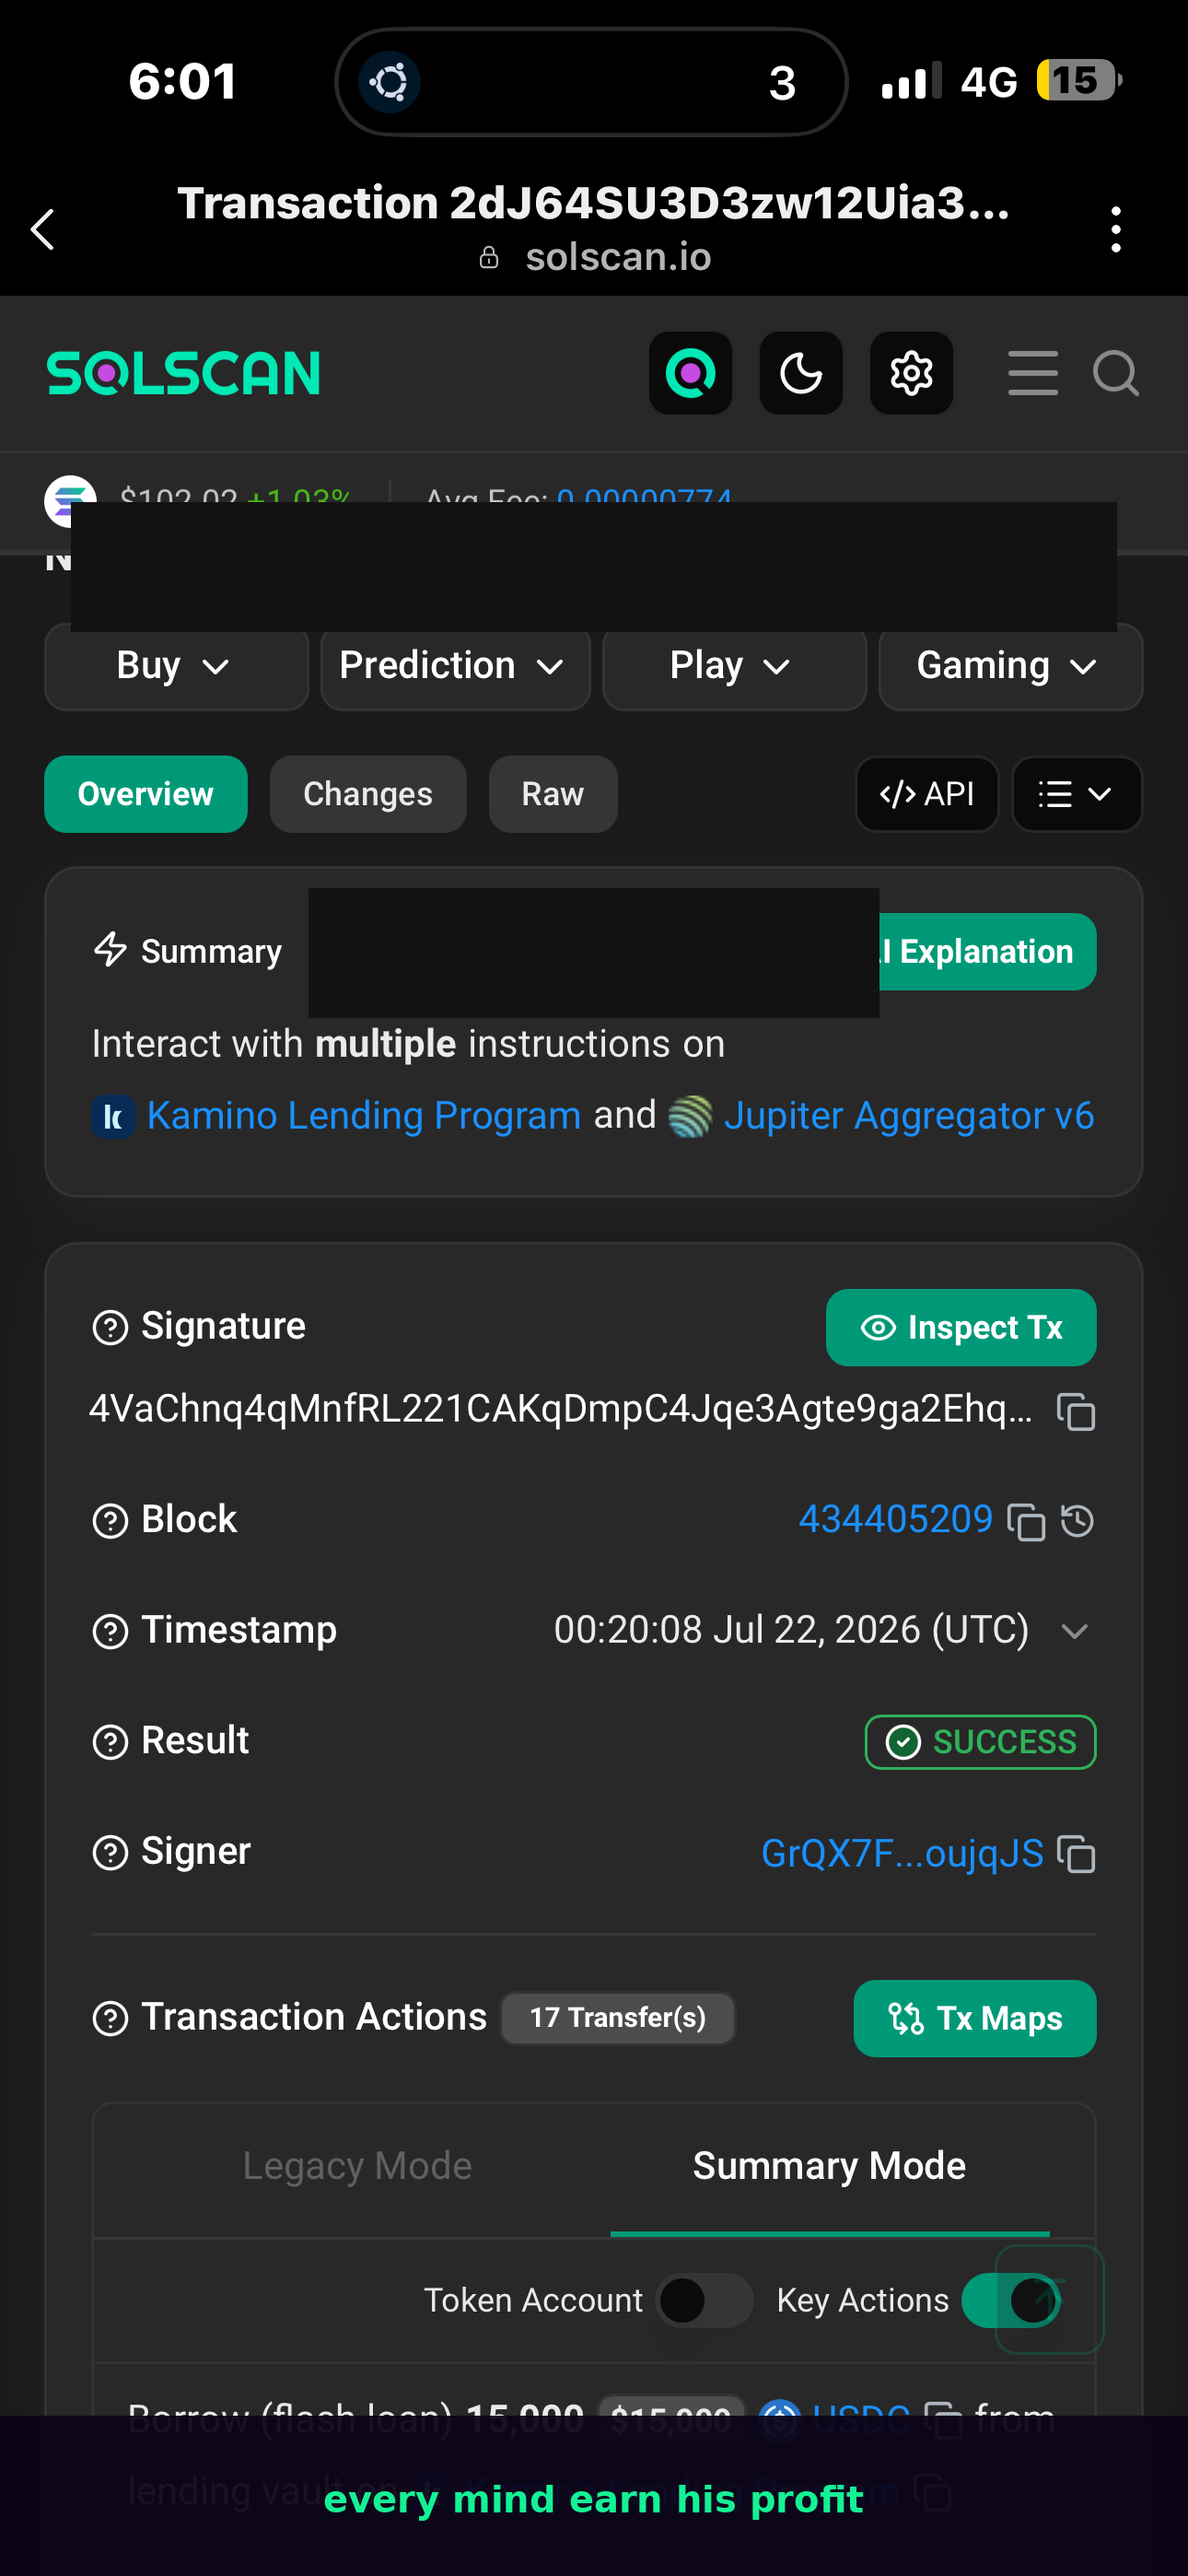
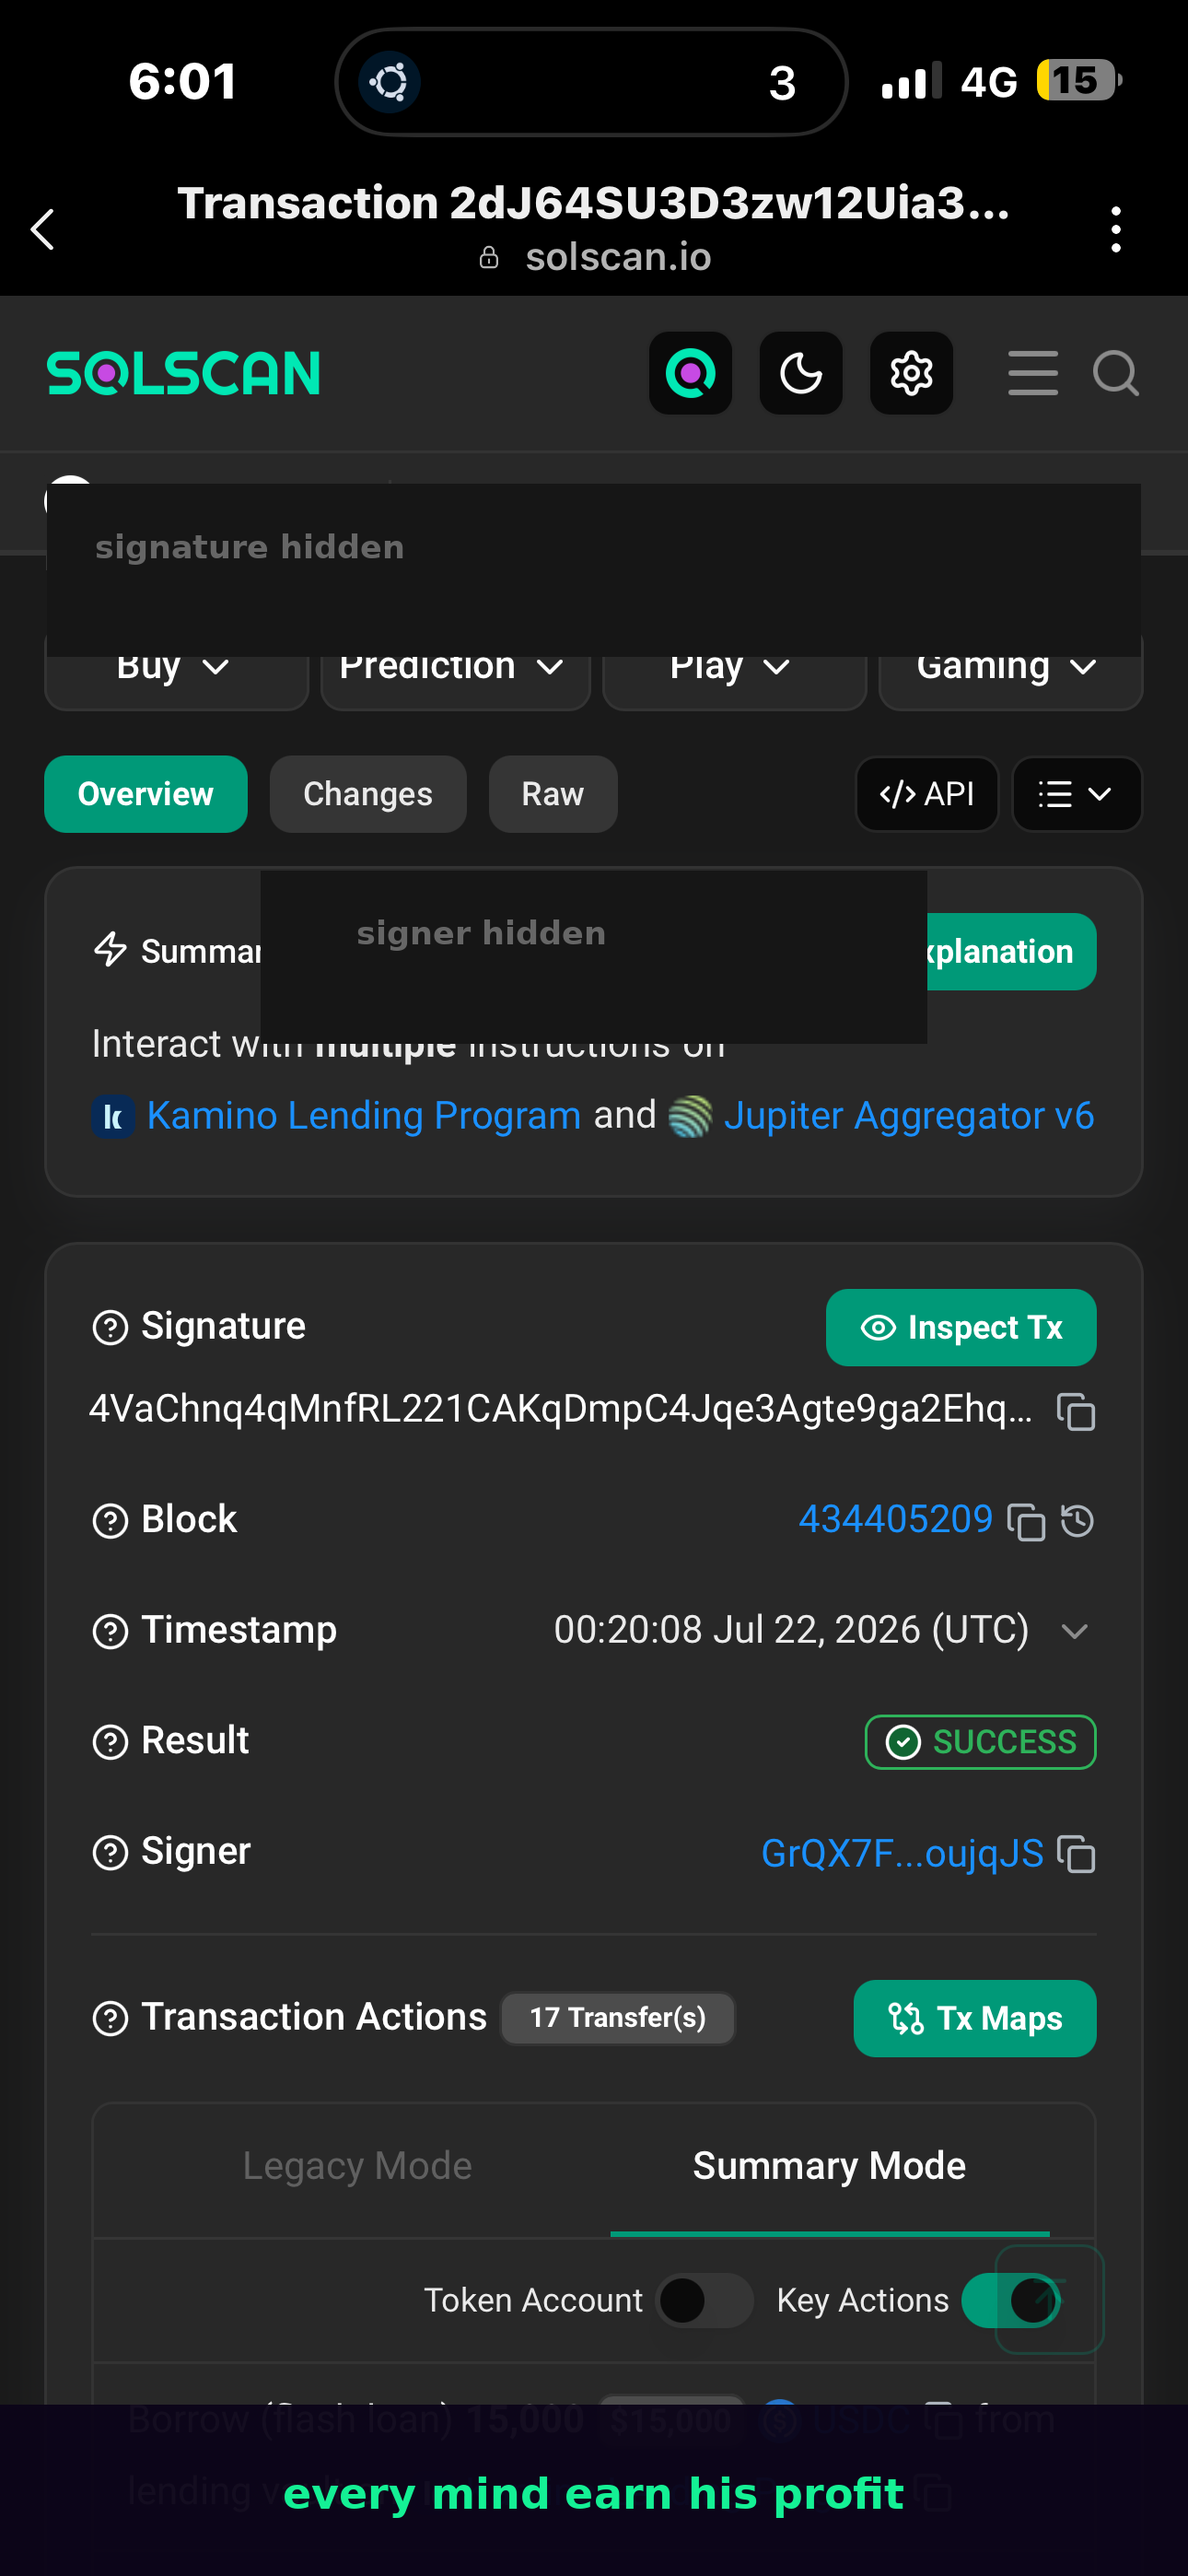
feat: add flash-loan proof gallery and owner branding updates
- Add Flash path · 15k USDC gallery with redacted Solscan proof images
- Footer marks: owner ✝🧿🪬 up, desk 3⃣🧿5⃣ down on separate lines
- Remove Wyndham Heaven / ElGhaly bylines from public page
- Contact: Ask us on mail — support@elghaly.dev · We are 24
- Replace flash images with updated redacted versions

diff --git a/index.html b/index.html
@@ -252,7 +252,7 @@ footer .addr{direction:ltr;unicode-bidi:isolate}
         <img src="logo.png" width="72" height="72" alt="Plumb"/>
       </div>
       <div class="hero-photo">
-        <img src="hero-desk.jpeg" alt="ElGhaly desk — same house as 35 and IRIS" width="1168" height="784"/>
+        <img src="hero-desk.jpeg" alt="Desk — same house as 35 and IRIS" width="1168" height="784"/>
       </div>
     </div>
     <p class="eyebrow">Lifetime seats · Solana today</p>
@@ -333,11 +333,11 @@ footer .addr{direction:ltr;unicode-bidi:isolate}
     <p class="section-note">Real desk UI. <strong>35</strong> is the brand door (not sold here). <strong>Starter</strong> is a partial board. <strong>Pro / Source</strong> is the full arb board.</p>
     <div class="gallery">
       <figure>
-        <img class="brand-shot" src="photo-35-desk.jpeg" alt="35 — ELGHALY brand mark, same house as IRIS, not a Plumb seat" width="1168" height="784"/>
+        <img class="brand-shot" src="photo-35-desk.jpeg" alt="35 — brand mark, same house as IRIS, not a Plumb seat" width="1168" height="784"/>
         <figcaption>
           <span class="tag">Not for sale on Plumb</span>
           <strong>35 · brand / desk</strong>
-          Same-house mark on <a href="https://35.elghaly.dev">35.elghaly.dev</a>. Earned-credits door — not a paid Plumb seat.
+          Same-house mark at <a href="https://35.elghaly.dev">35</a>. Earned-credits door — not a paid Plumb seat.
         </figcaption>
       </figure>
       <figure>
@@ -476,9 +476,8 @@ footer .addr{direction:ltr;unicode-bidi:isolate}
   <footer>
     <div class="marks owner-marks" aria-hidden="true">✝<br/>🧿<br/>🪬</div>
     <div class="marks desk-marks" aria-hidden="true" style="margin-top:14px">3⃣<br/>🧿<br/>5⃣</div>
-    <p>Plumb by ElGhaly · Wyndham Heaven</p>
+    <p>Ask us on mail — <a href="mailto:support@elghaly.dev">support@elghaly.dev</a> · We are 24</p>
     <p class="addr">548 Market Street, San Francisco, California 94104</p>
-    <p><a href="mailto:support@elghaly.dev">support@elghaly.dev</a> · <a href="mailto:35@elghaly.dev">35@elghaly.dev</a></p>
     <p style="margin-top:16px"><a href="https://35.elghaly.dev">35</a> · separate door · not sold here</p>
     <p class="fine">Plumb is desk software sold as-is, without warranty or guarantee. We make no claims about profit, returns, CLEAR, land, or any outcome. You host it, you hold the keys, you accept the risk. 35 credits are earned elsewhere and are never sold on this page. Not a token sale. Not an investment.</p>
   </footer>

diff --git a/README.md b/README.md
@@ -10,15 +10,13 @@ Ready desk software — lifetime paid seats.
 
 ---
 
-Wyndham Heaven · elghaly
-
 | Seat | Price | Stripe |
 |------|-------|--------|
 | Starter | $299 | [Pay](https://buy.stripe.com/14A6oB4AD7GBd2g3QN3Ru00) |
 | Pro | $699 | [Pay](https://buy.stripe.com/4gM00d4AD2mhfao1IF3Ru01) |
 | Source | $1,999 | [Pay](https://buy.stripe.com/5kQ5kx4AD2mh2nC0EB3Ru02) |
 
-Support: [support@elghaly.dev](mailto:support@elghaly.dev)
+Ask us on mail — [support@elghaly.dev](mailto:support@elghaly.dev) · We are 24
 
 Titan / gRPC quoted separately. Follow-up $149/mo after the update window.
 
